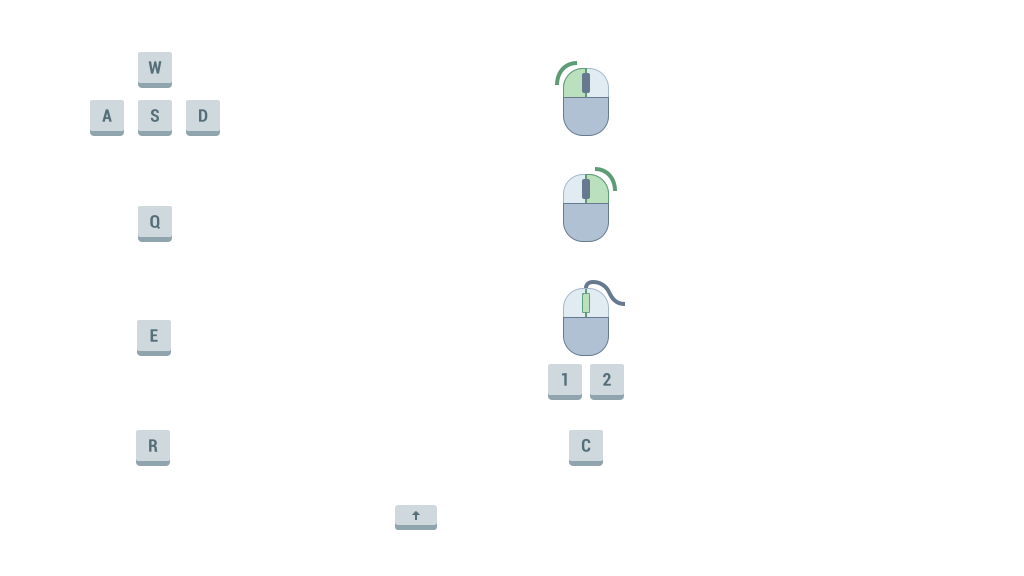
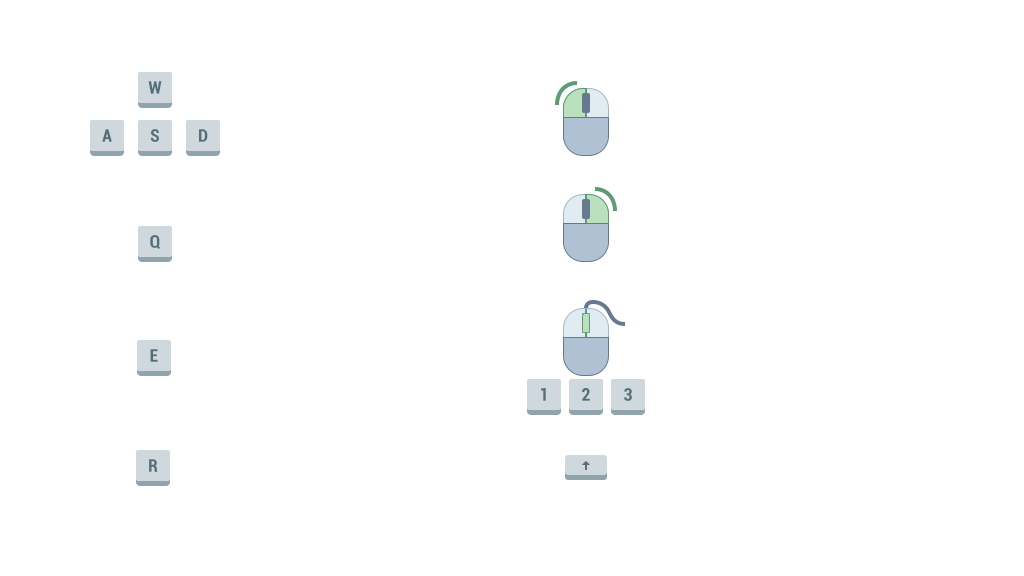
rpg v1 (not done)

diff --git a/client/index.js b/client/index.js
@@ -35,6 +35,8 @@ const ak = new Image();
 ak.src = "ak.png";
 const glock = new Image();
 glock.src = "glock.png";
+const rpg = new Image();
+rpg.src = "rpg.png";
 const frame = new Image();
 frame.src = "frame.png";
 const info = new Image();
@@ -42,9 +44,10 @@ info.src = "help.png";
 const timeIcon = new Image();
 timeIcon.src = "timeIcon.png";
 
-gaidaAtteluIeladi(function() {}, bulletIcon, ak, glock, frame, info);
+gaidaAtteluIeladi(function() {}, bulletIcon, ak, glock, frame, info, rpg, timeIcon);
 
 // constants
+const decreaseDamageRatio = 3; // decrease the damage dealt
 const canvas = document.getElementById("myCanvas");
 const ctx = canvas.getContext("2d");
 const KeyboardHelper = {
@@ -66,7 +69,7 @@ const mapSize = {
 const weapon = {
   ak: {
     rateOfFire: 1000/10,// 10 reizes sekundē, so katru 100 ms var izšaut vienu reizi
-    damage: 33,// damage dealt with each bullet
+    damage: 33/decreaseDamageRatio,// damage dealt with each bullet
     reloadTime: 2430, // reload time in milliseconds
     bullets: 30, 
     maxBullets: 30,
@@ -79,7 +82,7 @@ const weapon = {
   },
   glock:{
     rateOfFire: 1000/6.7,
-    damage: 24,
+    damage: 24/decreaseDamageRatio,
     reloadTime: 1570,
     bullets: 20,
     maxBullets: 20,
@@ -89,6 +92,19 @@ const weapon = {
     wWidth: 5,
     wLength: 20,
     wColor: "rgb(100, 113, 124)"
+  },
+  rpg:{
+    rateOfFire: 1000/0.5,
+    damage: 50,
+    reloadTime: 4000,
+    bullets: 5,
+    maxBullets: 5,
+    img: rpg,
+    shootingDist: 500,
+    spray: Math.PI / 180 * 0, // weapon's deviation, in degrees.
+    wWidth: 8,
+    wLength: 33,
+    wColor: "rgb(42, 179, 115)"
   }
 }
 const bgs = [
@@ -179,6 +195,8 @@ document.addEventListener("wheel", function(event){
   if (player.weapon == player.mainWeapon){
     player.weapon = player.sideWeapon;
   } else if (player.weapon == player.sideWeapon){
+    player.weapon = player.thirdWeapon;
+  } else if (player.weapon == player.thirdWeapon){
     player.weapon = player.mainWeapon;
   }
   weaponChange = true;
@@ -326,9 +344,12 @@ mape -- done by robis
 advenced level:
 camera shake -- done
 ieroči, scroll -- done
-sounds -- 
 grenade(goes through walls) -- not now
 help ui --  done
 weapon spray -- done
 players' obs check -- done
+sounds -- 
+random damage --
+grenade
+advanced spray(weapon follows bulletTrail) --
 */

diff --git a/client/functions/weaponComplexUi.js b/client/functions/weaponComplexUi.js
@@ -34,7 +34,10 @@ function drawWeaponComplex(reloading, reloadTime, lastReload, bullets, camX, cam
     ctx.drawImage(frame, canvas.width - player.mainWeapon.img.width - 30 - 4 - camX, canvas.height - player.mainWeapon.img.height - bulletIcon.height - 30 - 4 - camY);
   } else if (player.weapon == player.sideWeapon){
     ctx.drawImage(frame, canvas.width - player.sideWeapon.img.width - 30 - 4 - camX, canvas.height - player.sideWeapon.img.height - bulletIcon.height - 4 - player.mainWeapon.img.height - 30 - camY);
+  } else if (player.weapon == player.thirdWeapon){
+    ctx.drawImage(frame, canvas.width - player.sideWeapon.img.width - 30 - 4 - camX, canvas.height - player.sideWeapon.img.height - bulletIcon.height - 4 - player.mainWeapon.img.height - player.thirdWeapon.img.height -  30 - camY);
   }
   ctx.drawImage(player.mainWeapon.img, canvas.width - player.mainWeapon.img.width - 30 - camX, canvas.height - player.mainWeapon.img.height - bulletIcon.height - 30 - camY);
   ctx.drawImage(player.sideWeapon.img, canvas.width - player.sideWeapon.img.width - 30 - camX, canvas.height - player.sideWeapon.img.height - bulletIcon.height - player.mainWeapon.img.height - 30 - camY);
+  ctx.drawImage(player.thirdWeapon.img, canvas.width - player.sideWeapon.img.width - 30 - camX, canvas.height - player.sideWeapon.img.height - bulletIcon.height - player.mainWeapon.img.height- player.thirdWeapon.img.height - 30 - camY);
 }

diff --git a/client/classes/player.js b/client/classes/player.js
@@ -30,6 +30,7 @@ class client {
     // for shooting
     this.mainWeapon = weapon.ak; // player's main weapon
     this.sideWeapon = weapon.glock // player's pistol
+    this.thirdWeapon = weapon.rpg;
     this.weapon = this.mainWeapon;
     this.shootYes = false; // if mouse clicked
     this.theta = 0; // the angle between mouse and player
